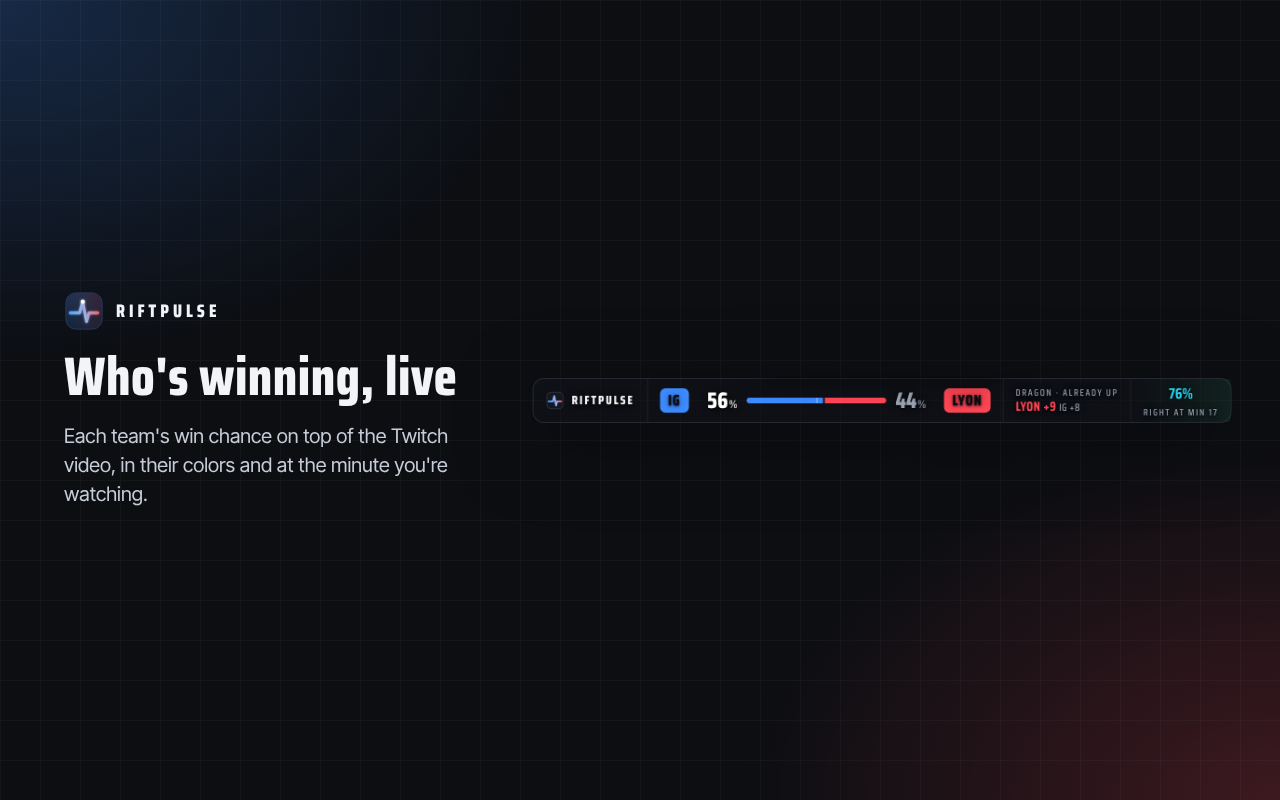
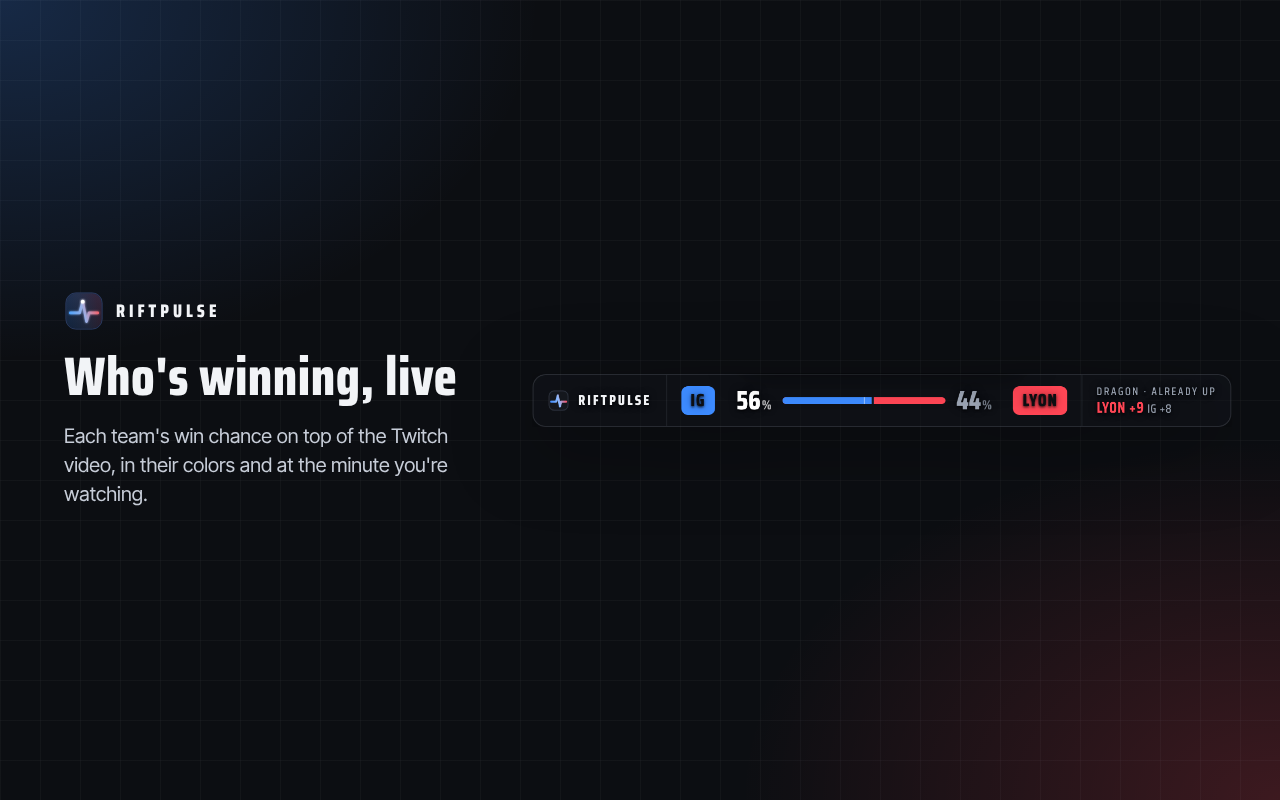
Mando conserva el último juego cuando deja de verse un partido; la barra del overlay sin el acierto por minuto; capturas de la tienda actualizadas

Changed region(s): [[0.4375, 0.4688, 0.9375, 0.5312]]

diff --git a/app.js b/app.js
@@ -2717,12 +2717,18 @@ function renderSetup() {
 }
 function renderMando() {
   renderSetup();
-  const s = MX.s, air = $('#mxAir');
+  // si deja de verse un partido (desk, pausa, otro stream, el overlay lo soltó), Mando se queda con el último juego que
+  // mostró: el guion, la lectura y lo de redes no se pierden; se avisa que es lo último y vuelve solo con el siguiente
+  const valido = x => !!(x && x.match && x.game && x.game.pBlue != null);
+  let s = MX.s, ultimo = false;
+  if (valido(s) && !(mxEmb && EXTST.seguir && !s.follow)) MX.ultimo = s;
+  else if (MX.ultimo) { s = MX.ultimo; ultimo = true; }
+  const air = $('#mxAir');
   if (!air) return;
   const pan = EXTST.pantalla && Date.now() - EXTST.pantalla.at < 60000 ? EXTST.pantalla : null;
   const segBtn = mxEmb ? `<button class="mx-btn${EXTST.seguir ? ' on' : ''}" data-mx="seguir" title="El panel muestra el mismo juego y minuto que tu video">📺 Seguir el video</button>` : '';
   // siguiendo el video: hasta que el overlay diga qué juego es, no se muestra ningún otro partido
-  const espera = mxEmb && EXTST.seguir && !(s && s.follow);
+  const espera = !ultimo && mxEmb && EXTST.seguir && !(s && s.follow);
   if (espera || !s || !s.match || !s.game || s.game.pBlue == null) {
     const nx = espera ? '' : s && s.next ? `<div class="mx-note">Próximo partido: <b>${esc(s.next.blue)} vs ${esc(s.next.red)}</b>.</div>` : '';
     const msg = espera && !pan ? 'Esperando el video: abrí el partido en Twitch con el overlay de RiftPulse y la sincronía automática encendida.' : pan && EXTST.seguir ? `Cargando lo que ves en el video: <b>${esc((pan.codes || []).join(' vs '))}</b> · juego ${pan.juego}…` : s && s.match ? 'El juego está por empezar…' : 'No hay un partido en vivo en este momento.';
@@ -2735,7 +2741,7 @@ function renderMando() {
   }
   const m = s.match, g = s.game, pb = Math.round(g.pBlue * 100), pr = 100 - pb;
   if (window.RPUI) RPUI.colores(m.blue.code, m.red.code);
-  const badge = s.follow ? (sinSenal() ? `<span class="mx-badge demo">📺 SIN SEÑAL DEL VIDEO · se mantiene el último juego</span>` : `<span class="mx-badge vid">📺 SINCRONIZADO CON TU VIDEO</span>`) : s.demo ? `<span class="mx-badge demo">DEMO · partido real del ${s.demo.date.slice(8, 10)}/${s.demo.date.slice(5, 7)} · ×${s.demo.vel}</span>` : g.ended ? '<span class="mx-badge fin">FINAL</span>' : '<span class="mx-badge live">● EN VIVO</span>';
+  const badge = ultimo ? `<span class="mx-badge demo">${L('📺 SIN PARTIDO EN PANTALLA · se mantiene el último', '📺 NO MATCH ON SCREEN · keeping the last one')}</span>` : s.follow ? (sinSenal() ? `<span class="mx-badge demo">📺 SIN SEÑAL DEL VIDEO · se mantiene el último juego</span>` : `<span class="mx-badge vid">📺 SINCRONIZADO CON TU VIDEO</span>`) : s.demo ? `<span class="mx-badge demo">DEMO · partido real del ${s.demo.date.slice(8, 10)}/${s.demo.date.slice(5, 7)} · ×${s.demo.vel}</span>` : g.ended ? '<span class="mx-badge fin">FINAL</span>' : '<span class="mx-badge live">● EN VIVO</span>';
   const se = s.series, im = g.impact, chips = [];
   chips.push(`<div class="mx-k">Min <b>${mmss(g.gt)}</b>${m.gameNo ? ` · juego ${m.gameNo}` : ''}</div>`);
   if (g.acc != null) chips.push(`<div class="mx-k" title="Acierto medido del modelo a este minuto, sobre 589 juegos que no había visto">A este minuto acierta <b>${mxPct(g.acc)}</b></div>`);

diff --git a/pruebas/t_app.js b/pruebas/t_app.js
@@ -67,6 +67,11 @@ module.exports = async function () {
   await p.waitForTimeout(3000);
   const cru = await p.evaluate(() => document.getElementById('iniDetalle').innerText.replace(/\s+/g, ' '));
   ok = chequear('enfrentamiento: muestra los últimos cruces con torneo, fecha y resultado', /Últimos cruces/i.test(cru) && /IG 2\s*–\s*1 LYON/.test(cru) && /Worlds · Fase Suiza/.test(cru) && /2026/.test(cru), cru.slice(cru.search(/Últimos cruces/i), cru.search(/Últimos cruces/i) + 90)) && ok;
+  // Mando: si deja de verse un partido, se queda con el último (el guion y la lectura no se pierden)
+  const mq = await p.evaluate(async () => { setVista('mando'); await new Promise(r => setTimeout(r, 2500));
+    const antes = document.getElementById('mxTalk').textContent; MX.s = Object.assign({}, MX.s, {game: null, match: null}); renderMando();
+    return {antes: !/Aparece con el partido/.test(antes), air: document.getElementById('mxAir').textContent, talk: document.getElementById('mxTalk').textContent}; });
+  ok = chequear('Mando: sin partido en pantalla conserva el último juego y lo avisa', mq.antes && /SIN PARTIDO EN PANTALLA/.test(mq.air) && !/Aparece con el partido/.test(mq.talk), mq.air.replace(/\s+/g, ' ').slice(0, 90)) && ok;
   ok = chequear('sin errores de JavaScript', !errores.length, errores.slice(0, 3).join(' | ')) && ok;
   // celular
   const c2 = await b.newContext({viewport: {width: 390, height: 844}}); await montar(c2);

diff --git a/ext-overlay.js b/ext-overlay.js
@@ -1774,9 +1774,7 @@
     if (EXT.indexOf('pg') >= 0) {
       html += '<div class="seg spark">' + miniSpark(g.samples || []) + '<div style="display:flex;flex-direction:column"><span class="sl">trayectoria</span><span class="sv">' + esc(pb >= pr ? m.blue.code : m.red.code) + ' ' + Math.max(pb, pr) + '%</span></div></div>';
     }
-    // el acierto medido del modelo en este minuto del juego (sube a medida que avanza)
-    html += fdo;
-    html += '<div class="seg acc" title="Con lo que se sabe a este minuto, el modelo acertó este porcentaje de juegos que no había visto"><span class="n">' + (g.acc != null ? Math.round(g.acc * 100) + '%' : '—') + '</span><span class="l">acierta al min ' + Math.floor(g.gt / 60) + '</span></div>';
+    html += fdo;  // el estado de los datos (retrasados, caídos), solo si hace falta
 
     body.innerHTML = html;
     if (window.RPUI) RPUI.numeros(body);

diff --git a/app.html b/app.html
@@ -145,6 +145,6 @@
 
 <script src="engine.js"></script>
 <script src="rp-ui.js"></script>
-<script src="app.js?v=6e700e55d8"></script>
+<script src="app.js?v=21b89e4522"></script>
 </body>
 </html>
